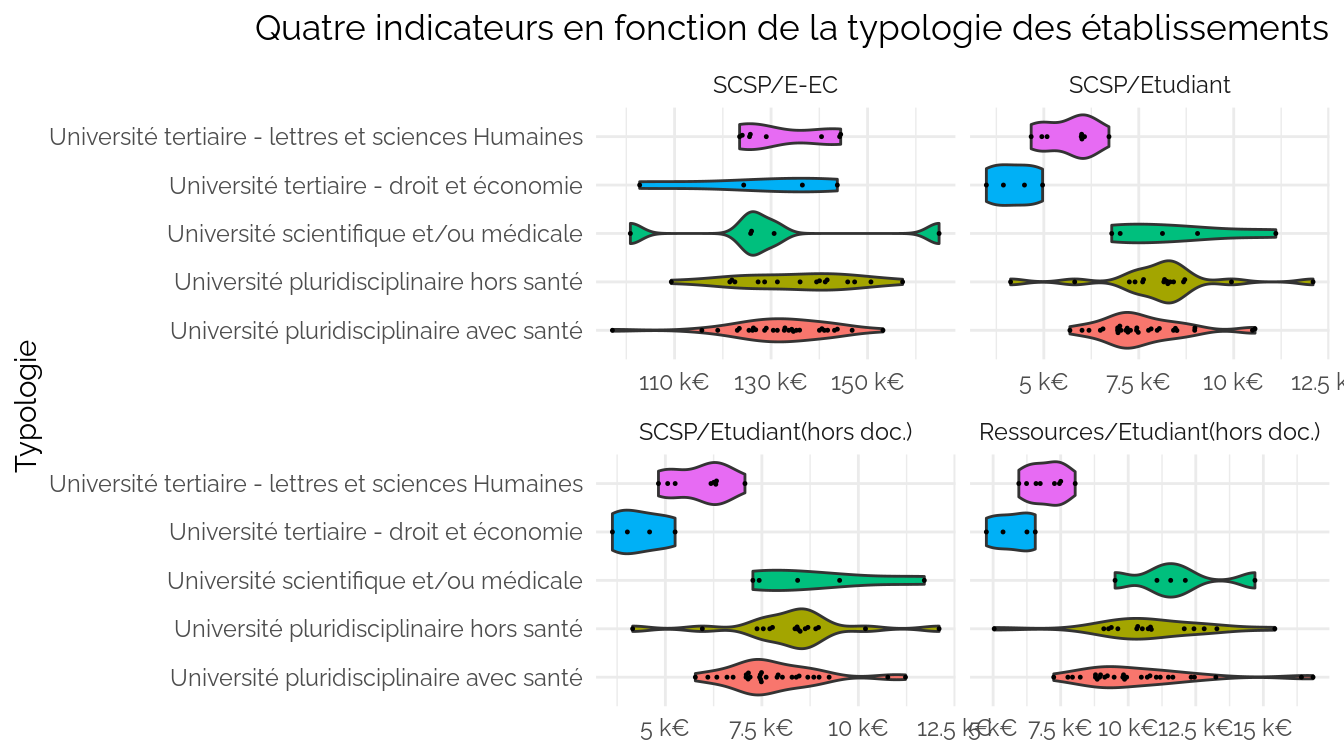
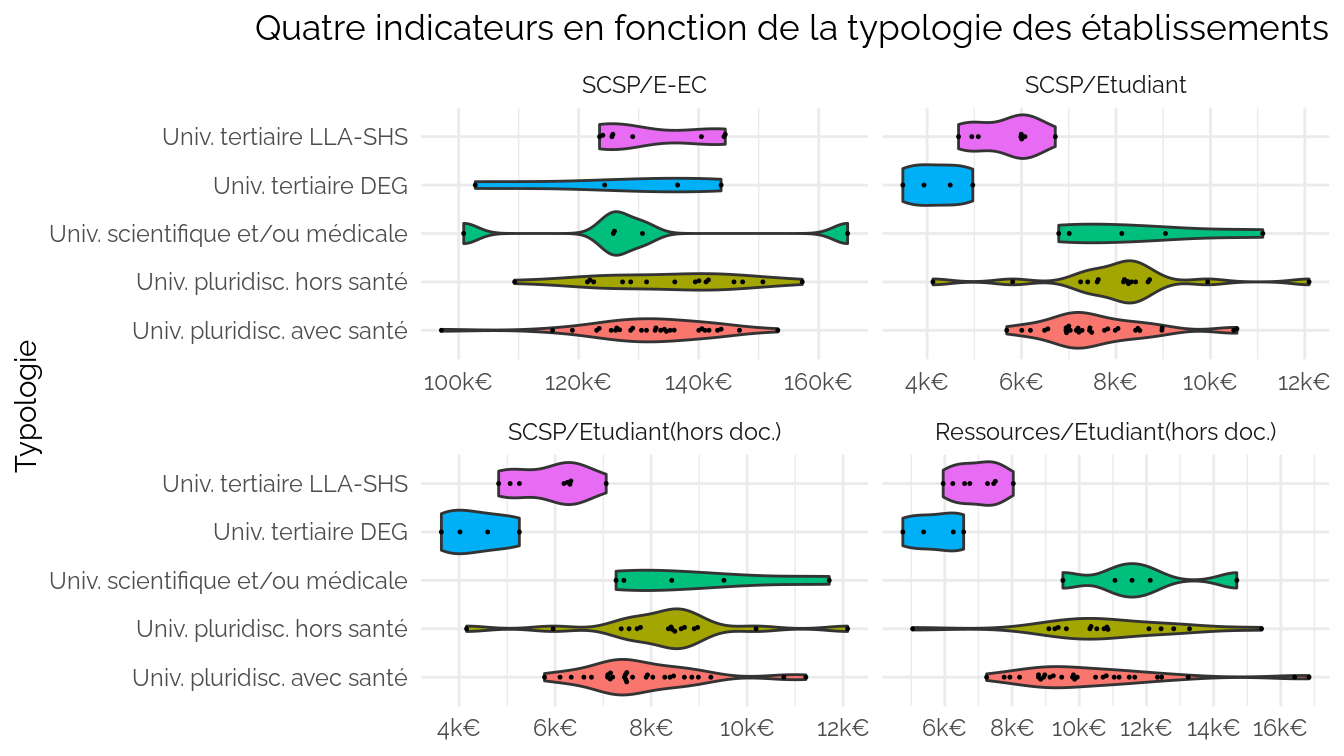
maj plots

diff --git a/SCSP/SCSP.md b/SCSP/SCSP.md
@@ -1,7 +1,7 @@
 SCSP
 ================
 CPESR
-2023-12-15
+2023-12-17
 
 ## Données
 
@@ -30,6 +30,10 @@ Données
 
 Téléchargement : [csv](%22fr-cpesr-scsp.csv%22)
 [xlsx](%22fr-cpesr-scsp.xlsx%22)
+
+Dans la suite, les données sont limitées aux établissements en France
+métropolitaine, sans Paris Sciences et Lettres, dont les indicateurs
+sont trop hors-norme.
 
 ## SCSP
 
@@ -77,6 +81,8 @@ Téléchargement : [csv](%22fr-cpesr-scsp.csv%22)
 ## Rangs
 
 <img src="SCSP_files/figure-gfm/rangs-1.png" width="672" />
+
+<img src="SCSP_files/figure-gfm/rangs.perimex-1.png" width="672" />
 
 <img src="SCSP_files/figure-gfm/rangs.typo-1.png" width="672" />
 
